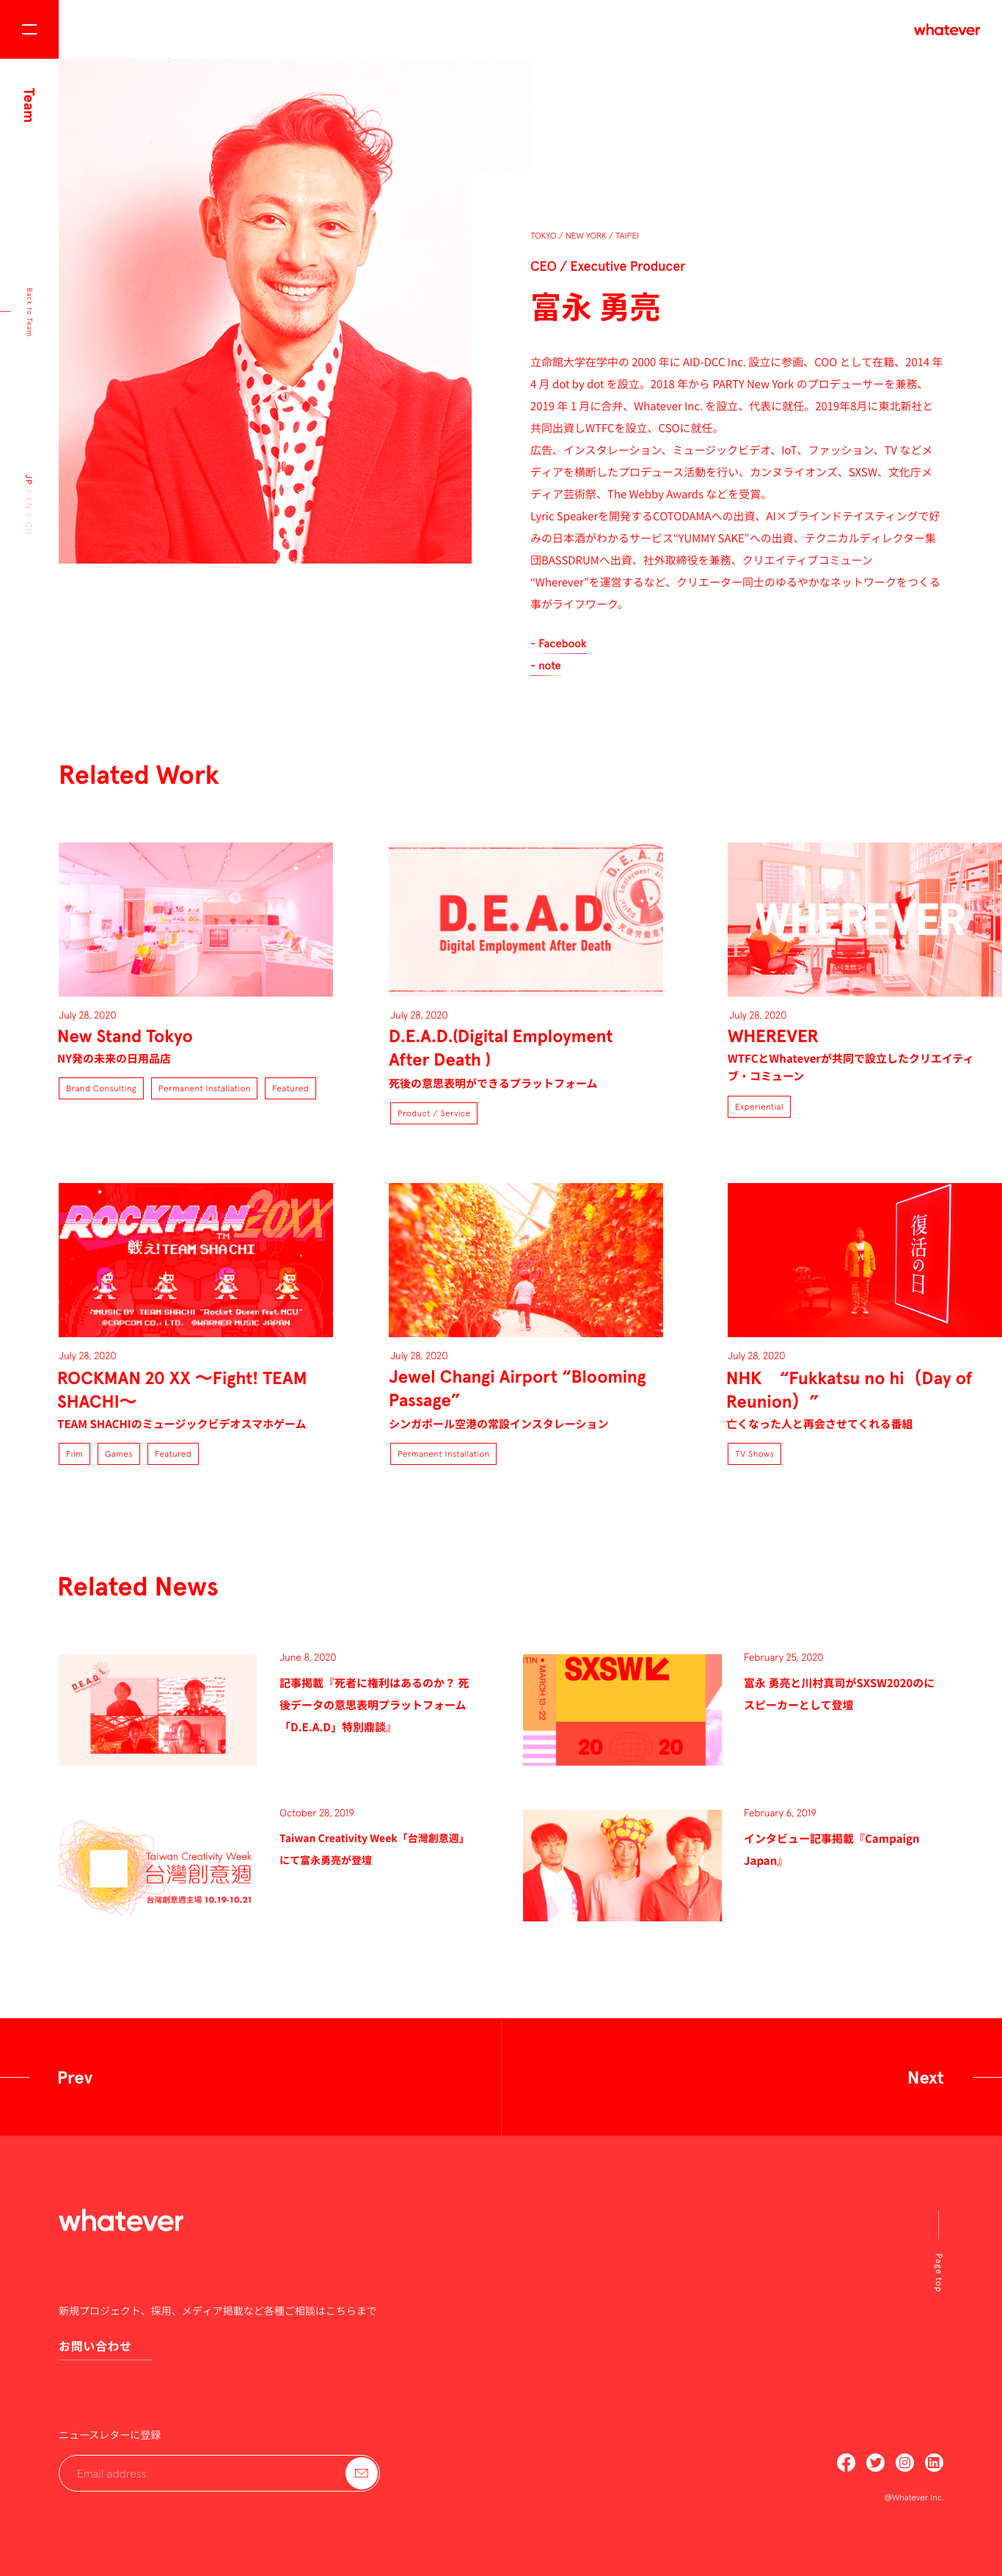
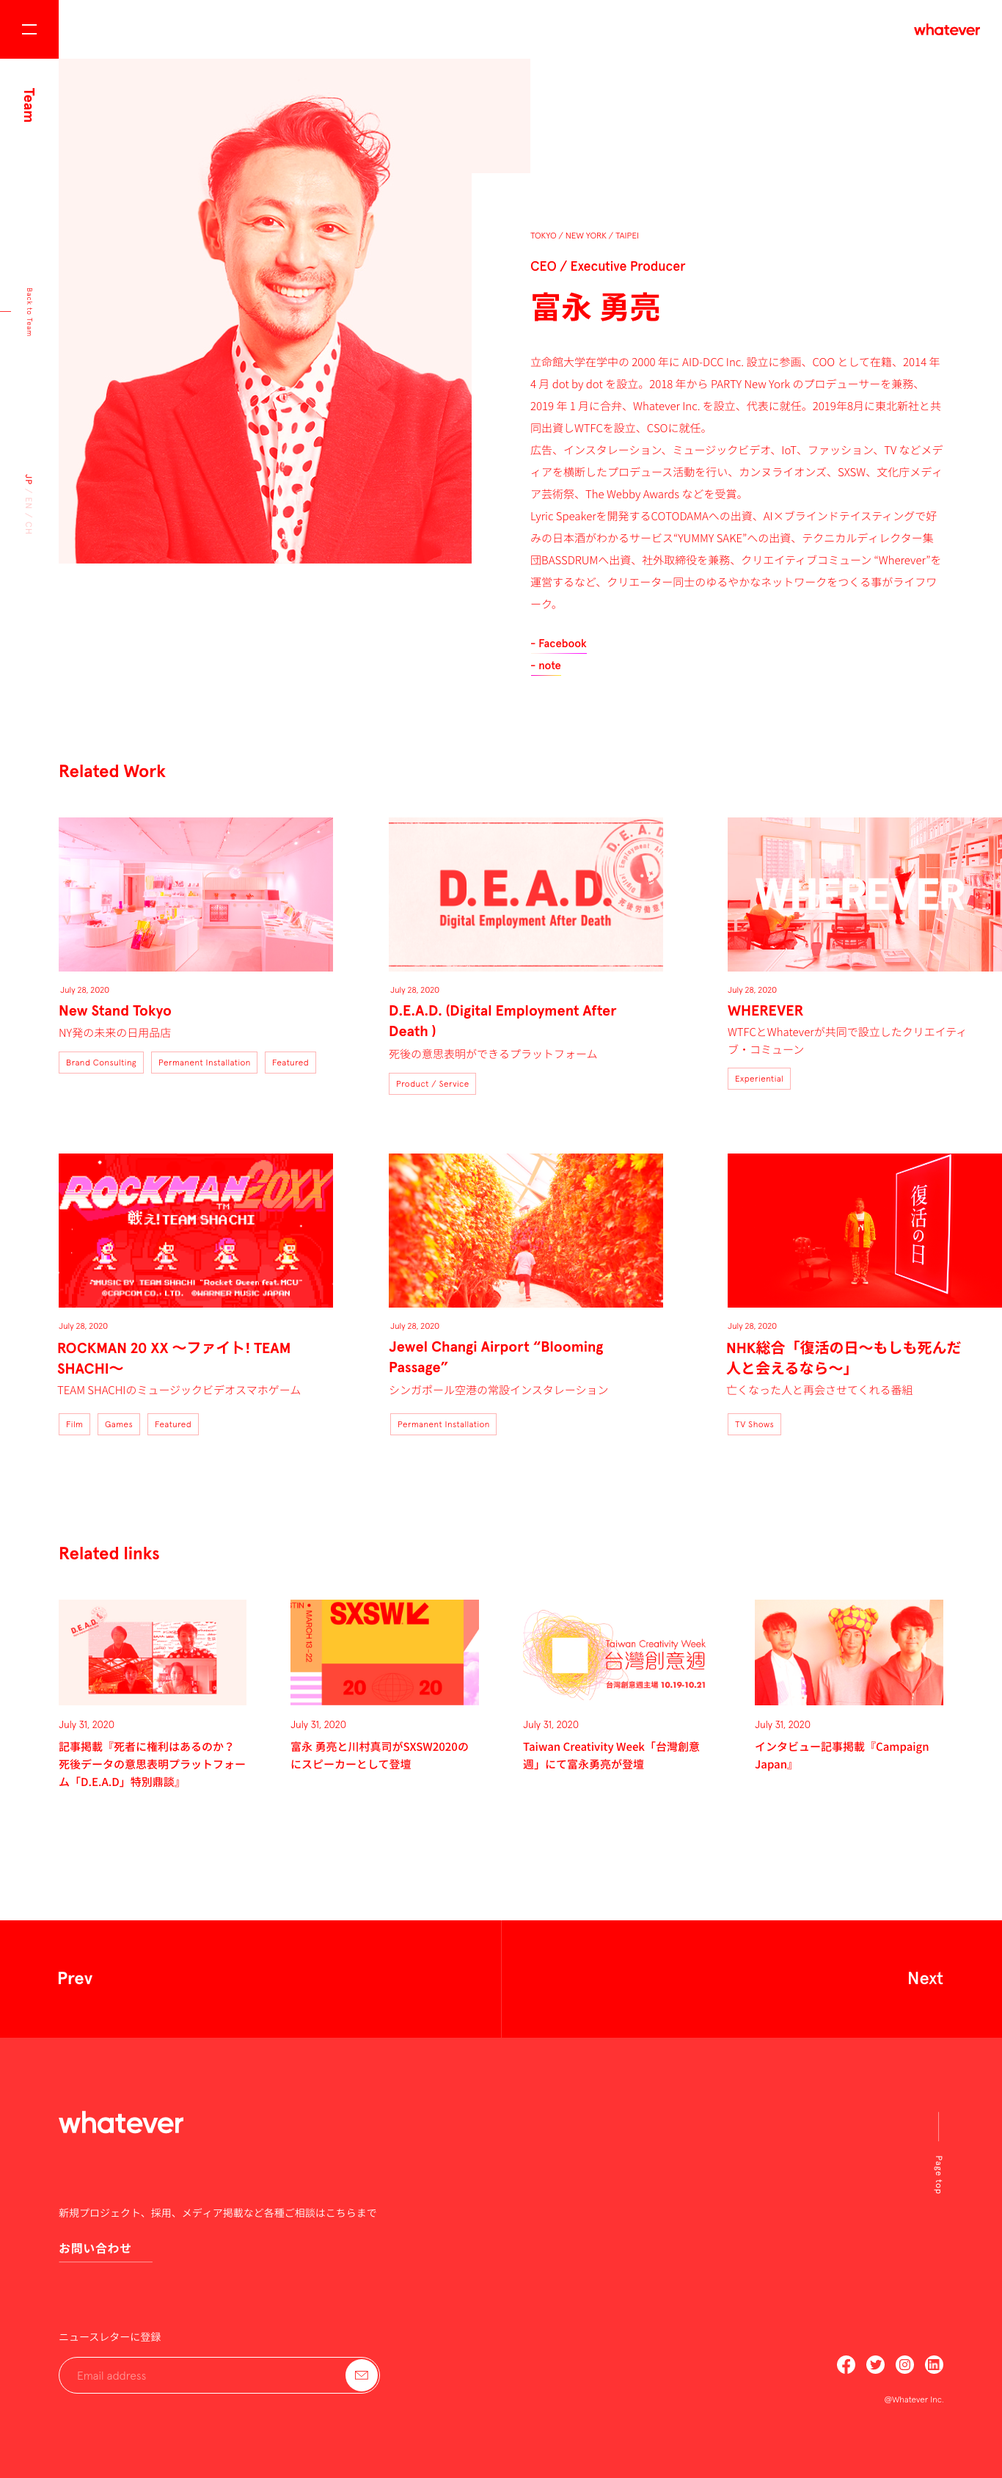
Team detail

diff --git a/pages/team/[slug].tsx b/pages/team/[slug].tsx
@@ -29,10 +29,8 @@ const MemberInfo = ({ member }: { member: Member }) => {
         </div>
       </div>
       <style jsx>{`
-        vwpx(px)
-          'calc((100vw - 80px) * %s)' % (px / (1366 - 80))
+        @import 'lib/vw.styl'
         .member-info
-          {/* opacity 0.5 */}
           position relative
           margin 0
           margin-bottom vwpx(30)
@@ -93,28 +91,24 @@ const RelatedWork = ({ works }: { works: Entry[] }) => (
     <h2>Related Work</h2>
     <WorkList works={works} />
     <style jsx>{`
-      vwpx(px)
-        'calc((100vw - 80px) * %s)' % (px / (1366 - 80))
+      @import 'lib/vw.styl'
       .related-work
-        {/* opacity 0.5
-        min-height 1000px */}
-        margin-bottom vwpx(74)
+        margin-bottom vwpx(73)
       h2
-        font-size vwpx(36)
         margin 0
-        margin-bottom vwpx(72)
+        margin-bottom vwpx(50)
     `}</style>
   </div>
 )
 
 
-const RelatedNews = ({ news }: { news: Entry[] }) => (
-  <div className="related-news">
-    <h2>Related News</h2>
-    <div className="news-list">
+const RelatedLinks = ({ news }: { news: Entry[] }) => (
+  <div className="related-links">
+    <h2>Related Links</h2>
+    <div className="list">
       {news.map(entry => (
         <Link key={entry.slug} href="/news">
-          <a className="news-item">
+          <a className="item">
             <img src={entry.hero_image} alt="" />
             <div className="text">
               <div className="date">{entry.date}</div>
@@ -125,37 +119,31 @@ const RelatedNews = ({ news }: { news: Entry[] }) => (
       ))}
     </div>
     <style jsx>{`
-      vwpx(px)
-        'calc((100vw - 80px) * %s)' % (px / (1366 - 80))
-      .related-news
-        {/* opacity 0.7 */}
+      @import 'lib/vw.styl'
+      .related-links
         margin-bottom vwpx(132)
       h2
-        font-size vwpx(36)
         margin 0
-        margin-bottom vwpx(72)
-      .news-list
+        margin-bottom vwpx(50)
+      .list
         margin-right vwpx(90)
         display grid
-        grid-template-columns repeat(2, 1fr)
-        grid-gap vwpx(60) vwpx(70)
-      .news-item
-        display grid
-        grid-template-columns vwpx(271) auto
-        column-gap vwpx(30)
+        grid-template-columns repeat(4, 1fr)
+        grid-gap vwpx(60)
+      .item
         border none
         img
-          width vwpx(271)
-          height vwpx(152)
+          width vwpx(256)
+          height vwpx(144)
           object-fit cover
       .date
         font-size vwpx(14)
-        margin-top vwpx(-2)
+        margin-top vwpx(16)
       .title
         font-size vwpx(15)
         font-weight bold
-        line-height vwpx(30)
-        margin-top vwpx(14)
+        line-height vwpx(24)
+        margin-top vwpx(12)
   `}</style>
   </div>
 )
@@ -165,14 +153,14 @@ const MemberDetail = ({ member, works, news }: { member: Member, works: Entry[],
   <Layout title={member.name} side="Team" backto="/team">
     <MemberInfo member={member} />
     {works.length ? <RelatedWork works={works} /> : null}
-    {news.length ? <RelatedNews news={news} /> : null}
+    {news.length ? <RelatedLinks news={news} /> : null}
   </Layout >
 )
 
 export default MemberDetail
 
 export const getStaticPaths: GetStaticPaths = async ({ locales }) => {
-  const members = await getAllMembers(1)
+  const members = await getAllMembers()
   const paths = (locales || ['ja']).map(locale => members.map((m) => ({ params: { slug: m.slug }, locale }))).flat()
   return {
     paths,

diff --git a/pages/work/[slug].tsx b/pages/work/[slug].tsx
@@ -283,7 +283,7 @@ const WorkDetail = ({ work }: { work: Entry }) => (
 export default WorkDetail
 
 export const getStaticPaths: GetStaticPaths = async ({ locales }) => {
-  const works = await getAllWorks(1)
+  const works = await getAllWorks()
   const paths = (locales || []).map(locale => works.map((w: any) => ({ params: { slug: w.slug }, locale }))).flat()
   return {
     paths,
